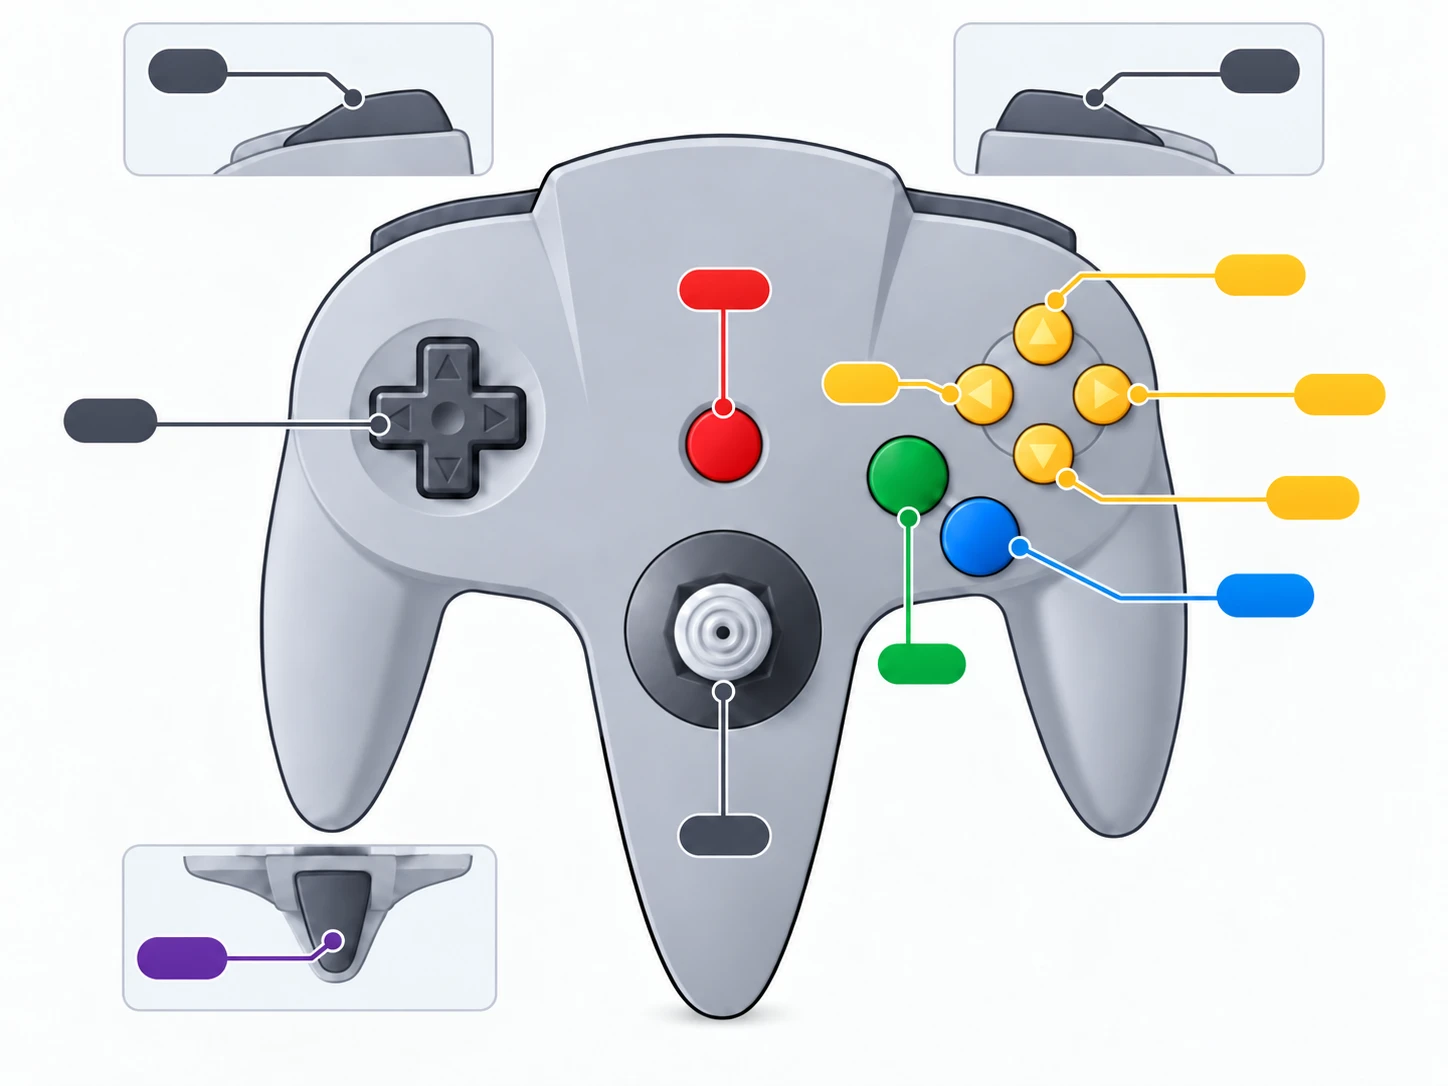
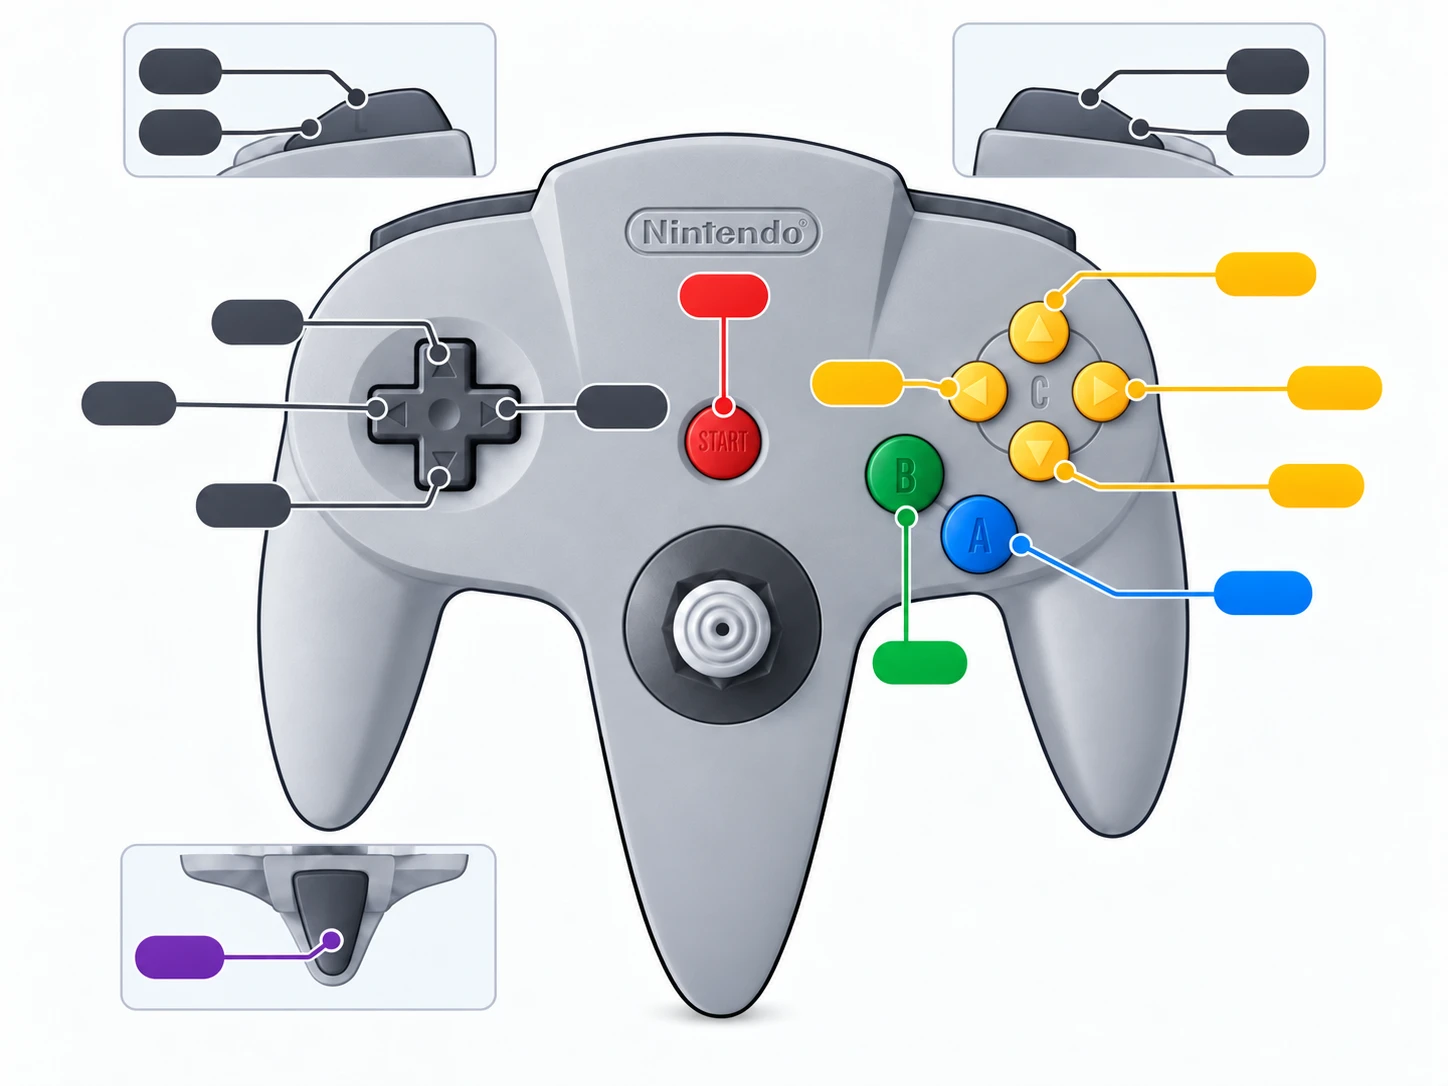
feat: the Controls diagram with L2 / R2, four D-pad labels and a stick label
The user's second picture puts L2 and R2 under L and R in the shoulder
insets (the host's two extra buttons, drawn as virtual N64 ones) and
gives each D-pad direction its own label. The diagram's buttons follow:
L2 and R2 bind functions 1 and 2, the D-pad directions bind one by one
(arrows only; the right one sits between the D-pad and START), and the
row under the diagram keeps the settings button with a note on what L2
and R2 do. The picture has no stick label, so the page draws its own
line, dot and label under the stick.

diff --git a/src/native/ui/frontend.cpp b/src/native/ui/frontend.cpp
@@ -200,6 +200,7 @@ button.set-toggle:focus {background-color:#ffd75e24;} button.set-toggle:focus .s
 .ctl-diagram {position:relative; border-radius:10dp; background-color:#f6f8fb;}
 .ctl-diagram img {position:absolute; left:0; top:0; margin:0;}
 .ctl-slot {position:absolute; display:flex; align-items:center;}
+.ctl-line,.ctl-dot {position:absolute;} .ctl-dot {box-sizing:border-box; border:2dp; background-color:#ffffff;}
 button.ctl-pill {display:flex; align-items:center; gap:6dp; margin:0; padding:0 10dp; box-sizing:border-box; white-space:nowrap; color:#ffffff; font-weight:bold; border:2dp #00000000;}
 button.ctl-pill.dark {color:#3a2c00;}
 button.ctl-pill .k {padding:0 6dp; font-weight:normal; background-color:#ffffff33;} button.ctl-pill.dark .k {background-color:#00000024;}
@@ -492,25 +493,33 @@ struct Callout {
     char grow;                         // 'l' away to the left, 'r' to the right, 'c' both ways
     const char* colour;
     bool dark_text;
+    int line_top=0;                    // a label the picture lacks: its line runs up to here
 };
 using input::Action;
 constexpr Callout callouts[]={
-    {"l","L",{Action::L},1,"{L}",150,49,226,93,'l',"#474d5b",false},
-    {"z","Z",{Action::Z},1,"{Z}",139,938,226,979,'l',"#652fa6",false},
-    {"dpad","controls_dpad",{Action::DUp,Action::DDown,Action::DLeft,Action::DRight},4,"{DPad}",65,399,156,442,'l',"#464d5b",false},
-    {"stick","controls_stick",{Action::StickUp,Action::StickDown,Action::StickLeft,Action::StickRight},4,"{Stick}",681,816,768,855,'c',"#454c5a",false},
-    {"start","START",{Action::Start},1,"{Start}",680,270,768,309,'c',"#e8201f",false},
-    {"b","B",{Action::B},1,"{B}",879,644,965,684,'c',"#01a83d",false},
-    {"c_left","C\xe2\x97\x80",{Action::CLeft},1,"{CLeft}",825,364,898,402,'l',"#fec421",true},
-    {"c_up","C\xe2\x96\xb2",{Action::CUp},1,"{CUp}",1216,255,1305,295,'r',"#fec421",true},
-    {"c_right","C\xe2\x96\xb6",{Action::CRight},1,"{CRight}",1295,374,1384,415,'r',"#fec421",true},
-    {"c_down","C\xe2\x96\xbc",{Action::CDown},1,"{CDown}",1267,476,1358,519,'r',"#fec421",true},
-    {"a","A",{Action::A},1,"{A}",1217,574,1313,617,'r',"#0081f3",false},
-    {"r","R",{Action::R},1,"{R}",1221,49,1299,92,'r',"#474d5b",false},
-    // Not on the N64 controller: the host's own buttons, in a row under the diagram.
+    // L2 and R2 are the host's two extra buttons, drawn under L and R (function 1: automatic
+    // reading, previous enemy; function 2: fast-forward, next enemy, end a battle animation).
+    {"l","L",{Action::L},1,"{L}",140,49,220,93,'l',"#474d5b",false},
+    {"l2","L2",{Action::AuxLeft},1,"{AuxL}",140,110,221,155,'l',"#474d5b",false},
+    {"z","Z",{Action::Z},1,"{Z}",136,936,223,978,'l',"#652fa6",false},
+    {"d_up","\xe2\x96\xb2",{Action::DUp},1,"{DUp}",212,300,303,344,'l',"#464d5b",false},
+    {"d_left","\xe2\x97\x80",{Action::DLeft},1,"{DLeft}",82,382,176,425,'l',"#464d5b",false},
+    {"d_down","\xe2\x96\xbc",{Action::DDown},1,"{DDown}",197,484,290,527,'l',"#464d5b",false},
+    // Between the D-pad and START: keep it short, it grows towards the START button.
+    {"d_right","\xe2\x96\xb6",{Action::DRight},1,"{DRight}",577,386,667,427,'r',"#464d5b",false},
+    {"start","START",{Action::Start},1,"{Start}",681,275,767,317,'c',"#e8201f",false},
+    // The picture has no label for the stick: this one brings its own line (line_top).
+    {"stick","controls_stick",{Action::StickUp,Action::StickDown,Action::StickLeft,Action::StickRight},4,"{Stick}",680,800,766,842,'c',"#454c5a",false,690},
+    {"b","B",{Action::B},1,"{B}",873,641,966,684,'c',"#01a83d",false},
+    {"c_left","C\xe2\x97\x80",{Action::CLeft},1,"{CLeft}",813,362,902,404,'l',"#fec421",true},
+    {"c_up","C\xe2\x96\xb2",{Action::CUp},1,"{CUp}",1216,252,1316,296,'r',"#fec421",true},
+    {"c_right","C\xe2\x96\xb6",{Action::CRight},1,"{CRight}",1288,366,1382,410,'r',"#fec421",true},
+    {"c_down","C\xe2\x96\xbc",{Action::CDown},1,"{CDown}",1269,464,1364,508,'r',"#fec421",true},
+    {"a","A",{Action::A},1,"{A}",1214,571,1312,615,'r',"#0081f3",false},
+    {"r","R",{Action::R},1,"{R}",1228,49,1307,93,'r',"#474d5b",false},
+    {"r2","R2",{Action::AuxRight},1,"{AuxR}",1228,110,1308,155,'r',"#474d5b",false},
+    // Not on the N64 controller: the settings window's button, in a row under the diagram.
     {"settings","controls_settings",{Action::Settings},1,"{Settings}",0,0,0,0,0,nullptr,false},
-    {"aux_left","controls_aux_left",{Action::AuxLeft},1,"{AuxL}",0,0,0,0,0,nullptr,false},
-    {"aux_right","controls_aux_right",{Action::AuxRight},1,"{AuxR}",0,0,0,0,0,nullptr,false},
 };
 constexpr const char* direction_keys[]={"controls_up","controls_down","controls_left","controls_right"};
 std::string callout_text(const Callout& c){return std::string_view(c.text).starts_with("controls_")?label(c.text):escape(c.text);}
@@ -598,6 +607,12 @@ std::string controls_page(float body_width) {
             const float span=260*s,top=c.y0*s,height=(c.y1-c.y0)*s,min_w=(c.x1-c.x0)*s;
             const float left=c.grow=='l'?c.x1*s-span:c.grow=='r'?c.x0*s:(c.x0+c.x1)*.5f*s-span/2;
             const char* justify=c.grow=='l'?"flex-end":c.grow=='r'?"flex-start":"center";
+            if(c.line_top) {
+                // The line from the input down to the label, and the dot at its end, as drawn ones look.
+                const float cx=(c.x0+c.x1)*.5f*s,line=std::max(1.5f,3*s),dot=std::max(5.f,14*s);
+                body+="<div class='ctl-line' style='left:"+dp(cx-line/2)+";top:"+dp(c.line_top*s)+";width:"+dp(line)+";height:"+dp(top-c.line_top*s)+";background-color:"+c.colour+";'></div>"
+                    "<div class='ctl-dot' style='left:"+dp(cx-dot/2)+";top:"+dp(c.line_top*s-dot/2)+";width:"+dp(dot)+";height:"+dp(dot)+";border-radius:"+dp(dot/2)+";border-color:"+c.colour+";'></div>";
+            }
             body+="<div class='ctl-slot' style='left:"+dp(left)+";top:"+dp(top)+";width:"+dp(span)+";height:"+dp(height)+";justify-content:"+justify+";'>"
                 "<button id='controls-bind:"+std::string(c.id)+"' class='ctl-pill"+(c.dark_text?" dark":"")+"' style='min-width:"+dp(min_w)+";height:"+dp(height)+
                 ";border-radius:"+dp(height/2)+";font-size:"+dp(std::max(11.f,height*.5f))+";background-color:"+c.colour+";'>"

diff --git a/src/srw64_native/profile.py b/src/srw64_native/profile.py
@@ -53,7 +53,7 @@ UI_KEYS |= {f"settings_{kind}_{row}{pad}" for row in SETTINGS_KEY_ROWS for kind,
 UI_KEYS |= {"settings_close", "settings_hint", "settings_hint_pad", "settings_presets", "settings_about_version",
             "settings_about_font", "settings_about_prompts_title", "settings_about_prompts"}
 # The Controls page's remapping (frontend.cpp controls_page).
-UI_KEYS |= {"controls_device", "controls_keyboard", "controls_controller", "controls_controller_none", "controls_note", "controls_dpad", "controls_stick", "controls_extra", "controls_extra_note", "controls_settings", "controls_aux_left", "controls_aux_right", "controls_fixed", "controls_fixed_list", "controls_reset", "controls_capture", "controls_capture_note", "controls_reserved", "controls_cancel", "controls_up", "controls_down", "controls_left", "controls_right"}
+UI_KEYS |= {"controls_device", "controls_keyboard", "controls_controller", "controls_controller_none", "controls_note", "controls_stick", "controls_extra", "controls_extra_note", "controls_settings", "controls_fixed", "controls_fixed_list", "controls_reset", "controls_capture", "controls_capture_note", "controls_reserved", "controls_cancel", "controls_up", "controls_down", "controls_left", "controls_right"}
 # Battle HUD banners and response badges drawn natively (sprite_text.cpp).
 UI_KEYS |= {"hud_counter", "hud_defend", "hud_evade", "hud_shield_defense", "hud_critical"}
 UI_KEYS |= {"upgrade_list_hint", "upgrade_list_hint_pages", "upgrade_stats_hint", "upgrade_confirm_hint", "upgrade_message_hint", "upgrade_weapons_hint", "upgrade_weapons_hint_pages", "funds_edit_hint", "upgrade_cap_original"}

diff --git a/docs/native/controls-remapping.md b/docs/native/controls-remapping.md
@@ -3,7 +3,7 @@
 2026-09-28。用户要求：按键设置加 N64 手柄图对照，加上本作的附加按键，按一下就能识别并设置。定下来的做法：
 
 - 改键后原生页面跟着新键走，Enter、Esc、方向键始终可用；
-- 手柄图用用户给的图（`content/ui/n64-controller.png`，1448×1086，用户 2026-09-28 提供）：灰色三叉手柄，L、R 顶视小图，Z 底视小图，每个键一条引线连到一个空的彩色标签。
+- 手柄图用用户给的图（`content/ui/n64-controller.png`，1448×1086，用户 2026-09-28 提供第二版）：灰色三叉手柄，L、R 顶视小图里各两个标签——上面是 L／R，下面是本作虚拟加的 L2／R2——Z 底视小图，十字键四个方向各一个标签，其余每个键一条引线连到一个空的彩色标签。图上没有摇杆的标签，页面自己画一条引线和标签补上。
 
 ## 数据
 
@@ -26,12 +26,12 @@
 `frontend.cpp` 的 `controls_page`：
 
 1. **设备**：键盘／手柄两个按钮，手柄按钮写着 SDL 报告的手柄名（没有手柄时写“未连接”）。手柄图显示所选设备的绑定。
-2. **手柄图**：图宽取页面宽的 80%（最多 860 dp），每个空标签上盖一个同色按钮：N64 名（十字键、摇杆按语言）加当前绑定（浅色底块）。按钮从引线那头往外长（`callouts[]` 记着图上每个标签的像素框和生长方向），所以绑定再长也不压住手柄。
-3. **附加按键**：设置窗口、功能 1、功能 2 三个按钮。
+2. **手柄图**：图宽取页面宽的 80%（最多 860 dp），每个空标签上盖一个同色按钮：N64 名（L2／R2 是本作的两个附加键，十字键四向只写 ▲▼◀▶，摇杆按语言）加当前绑定（浅色底块）。按钮从引线那头往外长（`callouts[]` 记着图上每个标签的像素框和生长方向，由标签颜色的连通块测出），所以绑定再长也不压住手柄；十字键右侧那个夹在十字键和 START 之间，所以标签只写箭头。
+3. **附加按键**：设置窗口（手柄视图键）一个按钮，下面说明图上 L2、R2 的作用。
 4. **固定快捷键**与**恢复默认按键**：Ctrl/Cmd + , 设置、F5 重载台词、F6 原版／HD、F7 语言、Esc 退出，不可改。
 5. 下面是原来的四组键位说明表，右列文字随绑定变化。
 
-**改键**：点选（或手柄 A）一个按钮，弹出“请按下给「A」的新按键”，下一个键盘键或手柄键（按键或把摇杆、扳机推到底）就绑给它；从哪个设备按的就改哪个设备，图随之切到该设备。十字键和摇杆依次问上、下、左、右。Esc 取消，6 秒没按也取消；F5–F8 被拒绝。手柄按下后要等全部松开，页面才重新接受手柄导航，避免刚绑的键立刻触发别的按钮。
+**改键**：点选（或手柄 A）一个按钮，弹出“请按下给「A」的新按键”，下一个键盘键或手柄键（按键或把摇杆、扳机推到底）就绑给它；从哪个设备按的就改哪个设备，图随之切到该设备。摇杆依次问上、下、左、右。Esc 取消，6 秒没按也取消；F5–F8 被拒绝。手柄按下后要等全部松开，页面才重新接受手柄导航，避免刚绑的键立刻触发别的按钮。
 
 ## 测试
 

diff --git a/docs/README.md b/docs/README.md
@@ -94,7 +94,7 @@
 | [移动选格：按住 R 跳到最远格](native/move-jump.md) | 现代机战式操作：选移动目的地时按住 R 高亮最远格、方向键在其间跳；状态 0xC 选格 `801CBB04`、范围绘制 `801E4760`、输入字与镜头的静态分析 |
 | [战斗演出中途退出](native/battle-animation-skip.md) | 进战斗后按 X 中止演出回地图：演出状态机 `D_80250000` 与收尾状态 21、原版 Z+START 是标题路线不能用；伤害其实由地图状态 0x4B 链的子状态 2（`801FBBD4`）计算，开动画时整条链被跳过；两个 overlay 地址重叠与未完成部分 |
 | [L2 / R2 切换敌方机体](native/enemy-cycle.md) | 现代机战式操作：地图空闲时用手柄扳机遍历敌方与第三方机体；空闲状态 `801C8B04` 里原版 L/R 切换我方的静态分析与接管方式 |
-| [改键](native/controls-remapping.md) | 设置窗口「操作」页：N64 手柄图上点键、按新键即绑定，键盘与手柄各一套，附加按键（设置、L2/R2 功能），`input.json`；提示与原生页面跟随绑定 |
+| [改键](native/controls-remapping.md) | 设置窗口「操作」页：N64 手柄图（虚拟加了 L2/R2）上点键、按新键即绑定，键盘与手柄各一套，附加的设置键，`input.json`；提示与原生页面跟随绑定 |
 | [模型替换](native/native-model-replacement.md) | 5600 原生 HD 标记（保留原版棱角的倒角金色八面体）与 Original/HD 切换 |
 | [世界地图过场模型 HD](native/native-ship-model.md) | 世界地图模型表、`3D72` 载具与场景地标、15 个舰船／地标按设定重建、平滑航迹与实机对照 |
 | [退出生命周期](native/native-window-close.md) | 关窗崩潰修复、线程回收与退出验收边界 |
